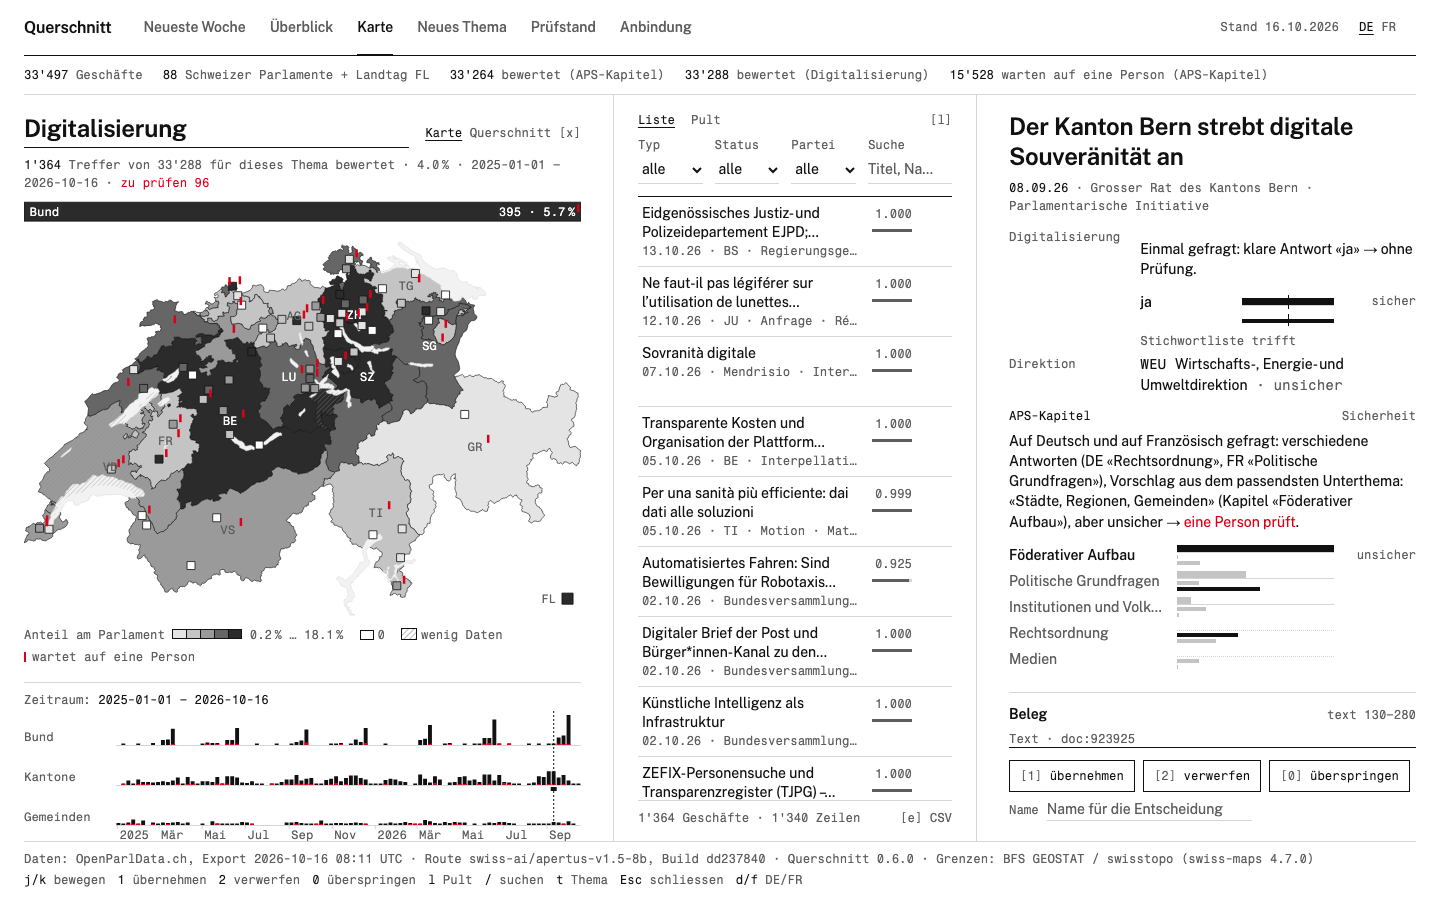
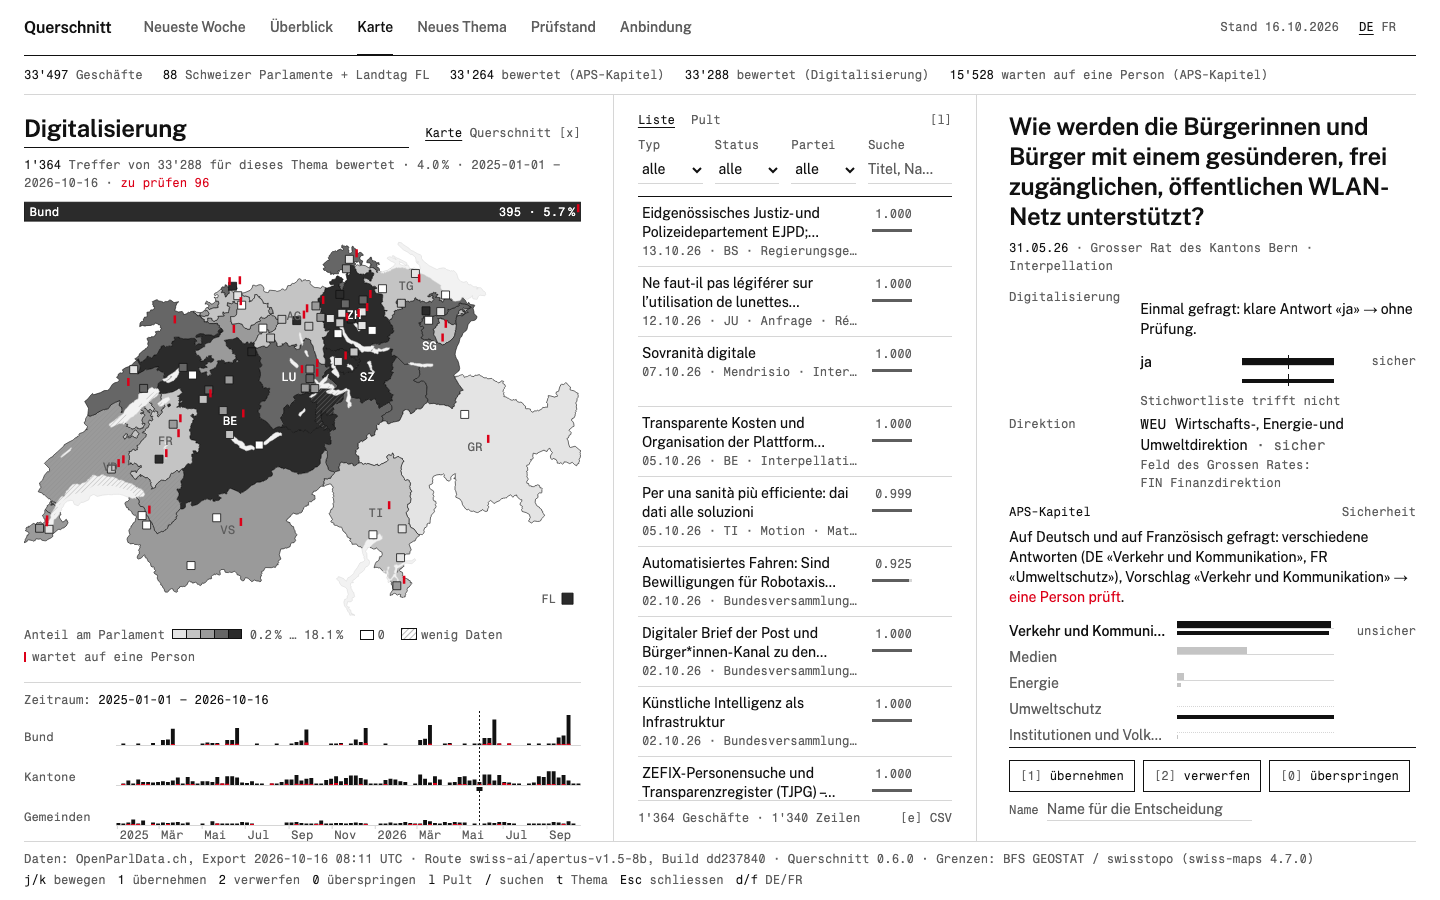
Gate 1 demo affair: 334708 (Bern, public wifi — German reads telecoms, French «moins néfaste pour la santé» reads environment, so a person checks); 338697 is the fallback; README image and report caption

Changed region(s): [[0.6875, 0.3111, 0.9688, 0.84], [0.6875, 0.1244, 0.9688, 0.3422]]

diff --git a/tools/report/render.py b/tools/report/render.py
@@ -29,7 +29,7 @@ FIGURES = [
      "of its affairs; at right, this week's affairs.", False),
     (r"method", "docs/img/entscheid.png",
      "Why this label: an affair of Bern's Grand Council, the chapter asked in German and in French, two different answers, "
-     "so a person checks; below the readings, the quoted sentence from the draft law.", False),
+     "so a person checks: the German version of a question about public wifi reads as telecoms, the French one as environment.", False),
     (r"results on human labels", "docs/img/pruefstand.png",
      "Prüfstand, held-out APS chapters: precision against coverage on the 927 new federal affairs (black) and the 1,357 "
      "design affairs (grey). Red: the shipped cut, recalibrated p ≥ 0.7.", True),

diff --git a/tools/preflight.py b/tools/preflight.py
@@ -27,7 +27,7 @@ from pathlib import Path
 ROOT = Path(__file__).resolve().parents[1]
 sys.path.insert(0, str(ROOT / "src"))
 
-DEMO_ID = 338697
+DEMO_ID = 334708
 SITE = "https://querschnitt.mi11ion.io"
 PY = ROOT / ".venv/bin/python"
 QUICK = ["tests/test_api.py", "tests/test_store.py", "tests/test_compose.py", "tests/test_prompts.py",

diff --git a/docs/PITCH.md b/docs/PITCH.md
@@ -8,7 +8,7 @@ wherever a number comes from the AI judge, the sentence says so. Three numbers c
 
 | Time | On screen | Said (gist) |
 |---|---|---|
-| 0:00–1:30 | Überblick (the atlas) → Digitalisierung → Karte → «Der Kanton Bern strebt digitale Souveränität an» → decision graphic and quote → `[1]` (name set before the slot) | "OpenParlData has no topic field. This is every affair since January 2025 from your exports — one map per topic, same scale. Each label is a choice from a closed list. Bern is bilingual, so the chapter is read twice, in German and in French; here they disagree, so it goes to a person — that is the lane working. This sentence from the draft law supports the topic. `[1]` — confirmed, with who and when, next to the inferred row. In a minute I will ask you for a topic you track by hand." |
+| 0:00–1:30 | Überblick (the atlas) → Digitalisierung → Karte → «Wie werden die Bürgerinnen und Bürger mit einem gesünderen, frei zugänglichen, öffentlichen WLAN-Netz unterstützt?» (Grosser Rat Bern) → decision graphic and quote → `[1]` (name set before the slot) | "OpenParlData has no topic field. This is every affair since January 2025 from your exports — one map per topic, same scale. Each label is a choice from a closed list. Bern is bilingual, so the chapter is read twice: the German version reads as telecoms, the French one — it asks for wifi «moins néfaste pour la santé» — as environment. They disagree, so it goes to a person: that is the lane working. This sentence supports the Digitalisierung topic. `[1]` — confirmed, with who and when, next to the inferred row. In a minute I will ask you for a topic you track by hand." |
 | 1:30–2:10 | Neues Thema: Christian names a topic | Terms appear, decisions stream in for last week. "No training. It is now a file in the nightly job." |
 | 2:10–3:00 | Prüfstand, human labels first | "927 federal affairs labelled by the APS editors that we never looked at while building, registered in advance: the shipped chapter is right in 69.6% across 24 chapters, keywords 18.6%. Two thirds of these pass without a check and are right in 81.2%; the rest go to a person. Cantonal and communal affairs are often title-only — about half of them go to a person; the overview shows that load per week. The trail behind every number is in the repo." |
 | 3:00–3:40 | The Anbindung view (one prepared screen, no live terminal): last night's log and the cost line on top, then the `topics` migration in OPD naming, the Hop pipeline that loads the bulk file, a `GET /changes?after=` page | "These are the merge-request files. Inferred and confirmed rows stay apart; every row names the build that made it. Model cost at list price: USD 0.333 per 1,000 affairs." |

diff --git a/README.md b/README.md
@@ -82,7 +82,7 @@ vs 0.696 with prefill; no calibration map yet) ([docs/SERVICE.md](docs/SERVICE.m
 - **Builds are never mixed.** Every row names the served model, its `system_fingerprint`, the prompt id and the input hash;
   a run locks the first build it sees and stops on any other. Tests pin the prompts byte-identical to the measured ones.
 
-![Why this label: Bern's Grand Council, the chapter asked in German and in French, two different answers, so a person checks; the quoted sentence from the draft law](docs/img/entscheid.png)
+![Why this label: Bern's Grand Council asks about public wifi; the German version reads as telecoms, the French one (wifi «moins néfaste pour la santé») as environment — two different answers, so a person checks](docs/img/entscheid.png)
 
 ## Integration with OpenParlData
 - **Output:** a topic row per affair, scheme and rank ([docs/CONTRACT.md](docs/CONTRACT.md); the service's own store table
